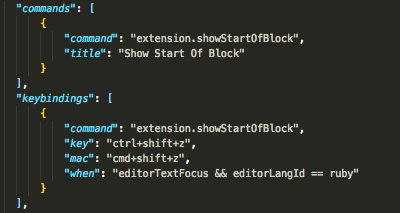
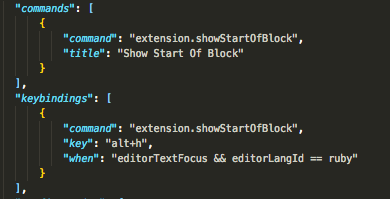
Changed image and README

diff --git a/README.md b/README.md
@@ -6,7 +6,7 @@ This extension is designed to help identify the starting line of a block that ma
 
 * First, either select the word "end" (drag over the word with the mouse) or place the cursor on top of it. The cursor can be placed anywhere within, behind, or after the word "end" to work.  
 ![](./images/example_selection.png)
-* Next, trigger the command by pressing Control + Shift + Z (Command + Shift + Z on Mac) or by choosing "Show Start Of Block" from the Command Palette.  
+* Next, trigger the command by pressing Alt + H or by choosing "Show Start Of Block" from the Command Palette.  
 ![](./images/example_highlighting.png)  
 ![](./images/example_command_selection.png)
 * The matching start line of the block will be highlighted.
